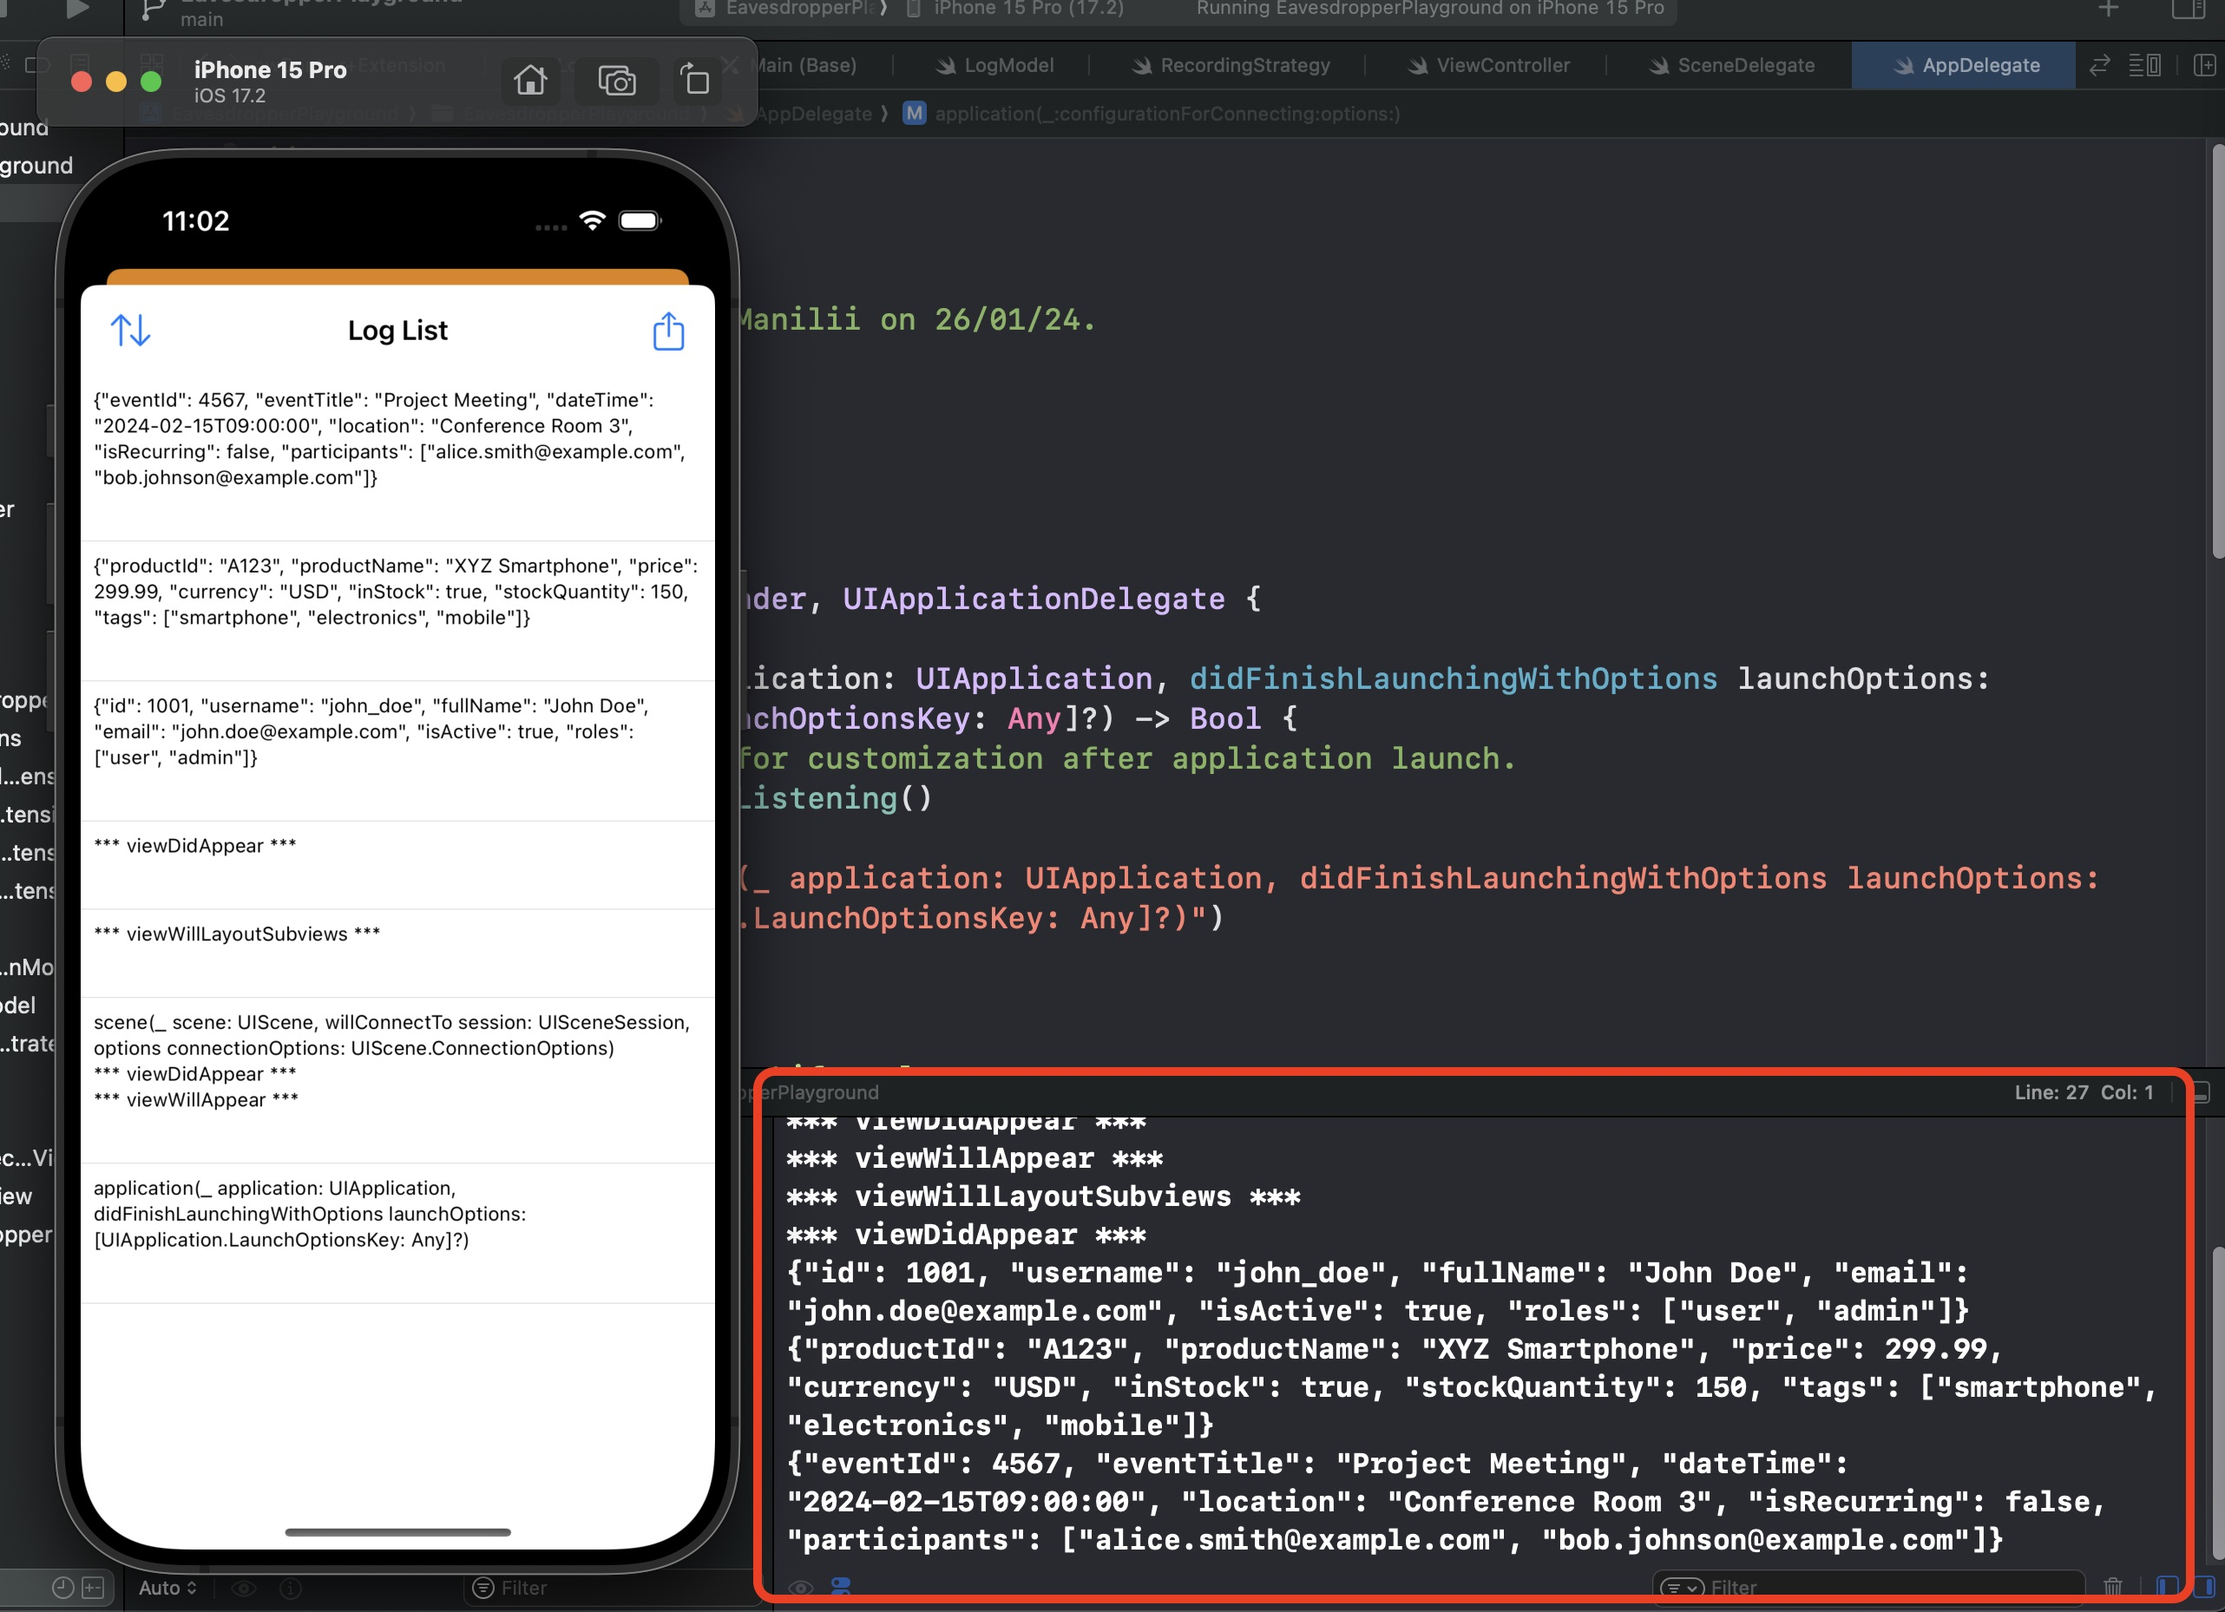
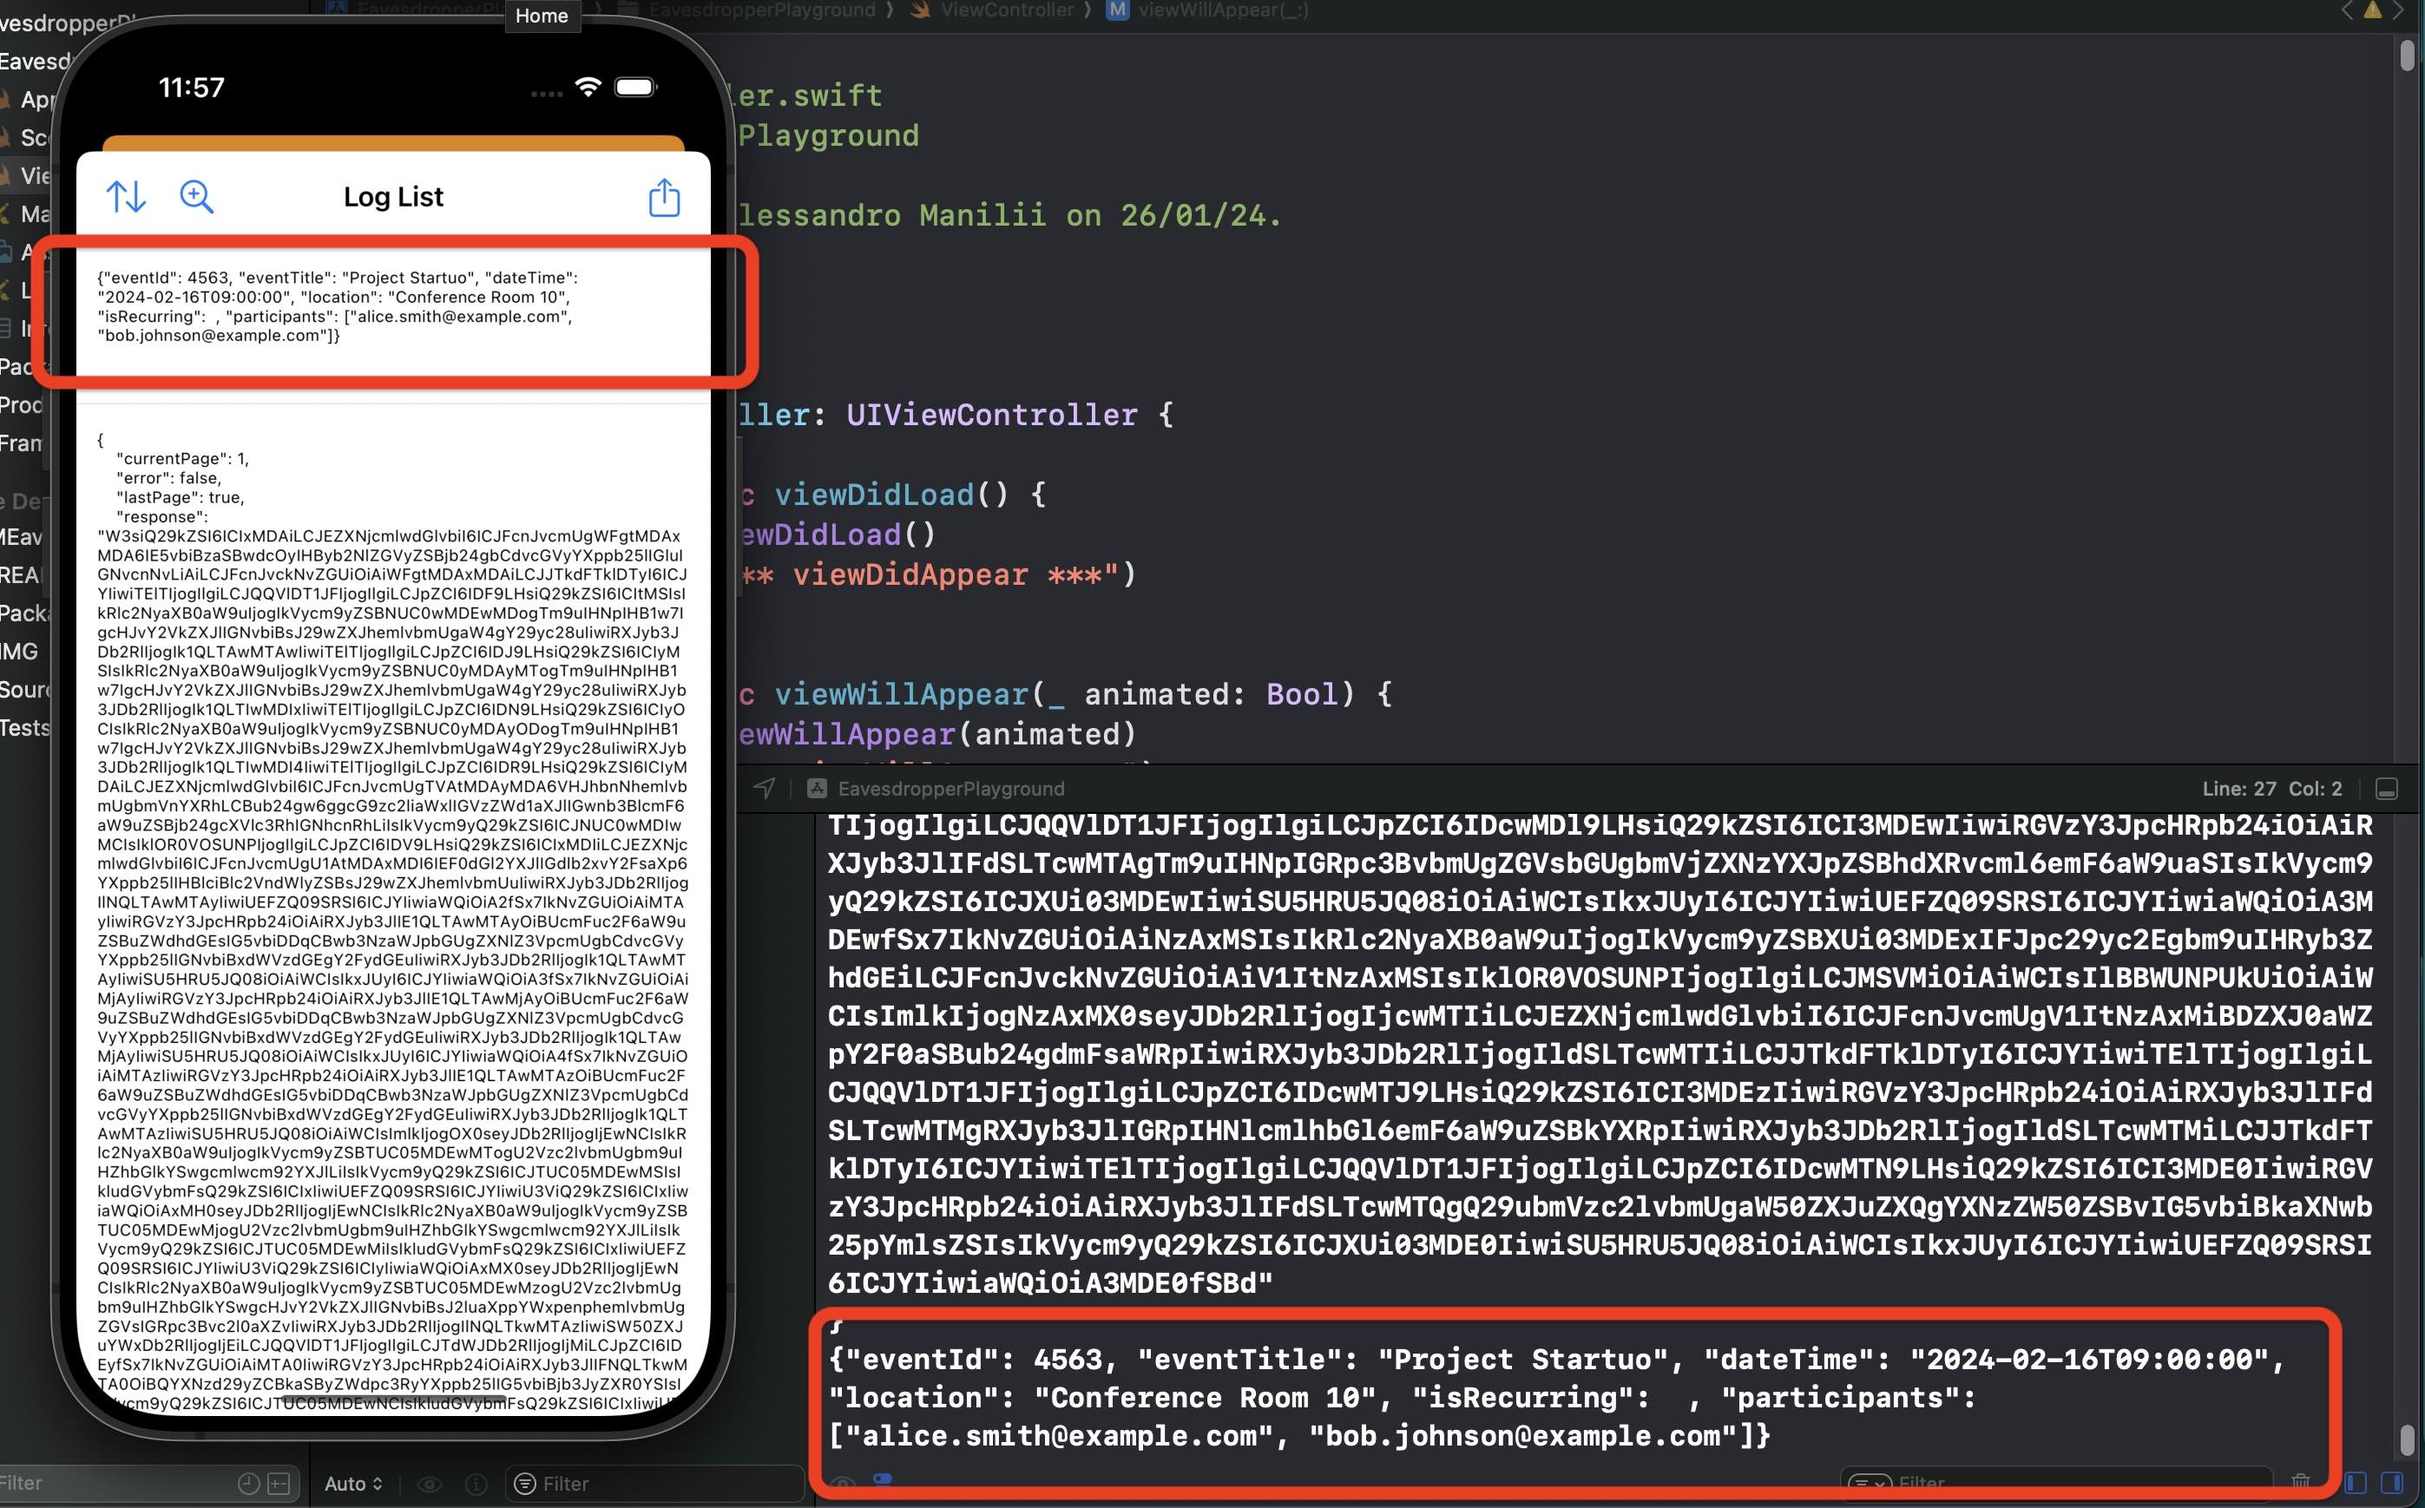
Improved search

diff --git a/Sources/AMEavesdropper/Scenes/Views/AttributedLabel.swift b/Sources/AMEavesdropper/Scenes/Views/AttributedLabel.swift
@@ -1,0 +1,129 @@
+//
+//  SwiftUIView.swift
+//  
+//
+//  Created by Alessandro Manilii on 01/02/24.
+//
+
+import UIKit
+import SwiftUI
+
+struct AttributedLabel: View {
+
+    @State private var height: CGFloat = .zero
+    @Environment(\.colorScheme) private var colorScheme
+    
+    var text: String
+    var searchText: String?
+    
+    var textColor: UIColor {
+        colorScheme == .dark ? UIColor.white : UIColor.black
+    }
+    
+    var body: some View {
+        
+        InternalTextView(
+            textColor: textColor,
+            text: text,
+            searchText: searchText,
+            dynamicHeight: $height
+        )
+        .frame(minHeight: height)
+    }
+
+    struct InternalTextView: UIViewRepresentable {
+
+        var attributedText: NSAttributedString
+        @Binding var dynamicHeight: CGFloat
+        
+        init(textColor: UIColor, text: String, searchText: String?, dynamicHeight: Binding<CGFloat>) {
+            let attributedText = InternalTextView.getAttributedString(
+                for: text, highlighted: searchText, textColor: textColor
+            )
+            self.attributedText = attributedText
+            self._dynamicHeight = dynamicHeight
+        }
+
+        func makeUIView(context: Context) -> UITextView {
+            let textView = UITextView()
+            textView.textAlignment = .justified
+            textView.isScrollEnabled = false
+            textView.isUserInteractionEnabled = false
+            textView.showsVerticalScrollIndicator = false
+            textView.showsHorizontalScrollIndicator = false
+            textView.allowsEditingTextAttributes = false
+            textView.backgroundColor = .clear
+            textView.setContentCompressionResistancePriority(
+                .defaultLow, for: .horizontal
+            )
+            textView.setContentCompressionResistancePriority(
+                .defaultLow, for: .vertical
+            )
+            return textView
+        }
+
+        func updateUIView(_ uiView: UITextView, context: Context) {
+            uiView.attributedText = attributedText
+            DispatchQueue.main.async {
+                dynamicHeight = uiView.sizeThatFits(CGSize(width: uiView.bounds.width, height: CGFloat.greatestFiniteMagnitude)).height
+            }
+        }
+        
+        private static func getAttributedString(
+            for text: String, highlighted: String?,
+            textColor: UIColor
+        ) -> NSMutableAttributedString {
+
+            var fullMutString = NSMutableAttributedString(string: "", attributes: [
+                .font: UIFont.systemFont(ofSize: 10),
+                .foregroundColor: textColor,
+                .kern: 0.0
+            ])
+            
+            if let highlighted, !highlighted.isEmpty {
+
+                let parts = text.localizedLowercase.components(separatedBy: highlighted.lowercased())
+                
+                for (index, item) in parts.enumerated() {
+                    let textPart = NSMutableAttributedString(
+                        string: item,
+                        attributes: [
+                            .font: UIFont.systemFont(ofSize: 10),
+                            .foregroundColor: textColor,
+                            .kern: 0.0
+                        ])
+                    
+                    fullMutString.append(textPart)
+                    
+                    if index < parts.count-1 {
+                        let highlightedText = NSMutableAttributedString(
+                            string: highlighted,
+                            attributes: [
+                                .font: UIFont.boldSystemFont(ofSize: 12),
+                                .foregroundColor: textColor,
+                                .kern: 0.0
+                            ])
+                        
+                        fullMutString.append(highlightedText)
+                    }
+                }
+            } else {
+                fullMutString = NSMutableAttributedString(string: text, attributes: [
+                    .font: UIFont.systemFont(ofSize: 10),
+                    .foregroundColor: textColor,
+                    .kern: 0.0
+                ])
+            }
+            
+            return fullMutString
+        }
+    }
+}
+
+#Preview {
+    VStack {
+        AttributedLabel(text: "Andiamo con un testo molto lungo che potrebbe andare su due righe, ma ancora di più, che guarda lo mando su ", searchText: "anD")
+    }
+    
+}
+

diff --git a/Sources/AMEavesdropper/Scenes/LogsView.swift b/Sources/AMEavesdropper/Scenes/LogsView.swift
@@ -22,6 +22,9 @@ struct LogsView: View {
     @State private var exportOrder = ExportOrder.descending
     @State private var searchText = ""
     
+    private let orderImgFilename = "arrow.up.arrow.down"
+    private let exportImgFilename = "square.and.arrow.up"
+    
     var searchImage: Image {
         canShowSearch ?
         Image(systemName: "minus.magnifyingglass") :
@@ -41,39 +44,45 @@ struct LogsView: View {
         NavigationView {
             
             ZStack {
-                ScrollView {
-                    VStack(spacing: 0) {
-                        
-                        if canShowSearch {
-                           SearchView(searchText: $searchText)
-                                .frame(height: 70)
-                        }
-                        
-                        ForEach(shownLogs) { log in
-                            // Log cell
-                            ZStack {
-                                bgColor(log: log)
-                                VStack {
-                                    Text(log.message ?? "---")
-                                        .font(.caption)
-                                        .frame(maxWidth: .infinity, alignment: .leading)
-                                        .padding(8)
-                                    
-                                    Divider()
-                                }
-                                
-                                Color.black.opacity(0.001)
-                                    .onTapGesture {
-                                        toggle(log: log)
-                                    }
-                            }
-                        }
+                
+                VStack(spacing: 0) {
+                    // Search are
+                    if canShowSearch {
+                       SearchView(searchText: $searchText)
+                            .frame(height: 70)
                     }
                     
-                    // Spacer
-                    Color.clear
-                        .frame(height: 100)
+                    ScrollView {
+                        VStack(spacing: 0) {
+  
+                            ForEach(shownLogs) { log in
+                                // Log cell
+                                ZStack {
+                                    bgColor(log: log)
+                                    VStack {
+                                        AttributedLabel(
+                                            text: log.message ?? "---",
+                                            searchText: searchText)
+                                        .frame(maxWidth: .infinity, alignment: .leading)
+                                        .padding(8)
+                                        
+                                        Divider()
+                                    }
+                                    
+                                    Color.black.opacity(0.001)
+                                        .onTapGesture {
+                                            toggle(log: log)
+                                        }
+                                }
+                            }
+                        }
+                        
+                        // Bottom Spacer
+                        Color.clear
+                            .frame(height: 100)
+                    }
                 }
+               
                 
                 VStack {
                     Spacer()
@@ -94,7 +103,7 @@ struct LogsView: View {
                     Button(action: {
                         exportLogs()
                     }, label: {
-                        Image(systemName: "square.and.arrow.up")
+                        Image(systemName: exportImgFilename)
                     })
             )
             .navigationBarItems(
@@ -104,7 +113,7 @@ struct LogsView: View {
                         Button(action: {
                             updateLogOrder()
                         }, label: {
-                            Image(systemName: "arrow.up.arrow.down")
+                            Image(systemName: orderImgFilename)
                         })
                         // Button Search
                         Button(action: {

diff --git a/Sources/AMEavesdropper/Eavesdropper.swift b/Sources/AMEavesdropper/Eavesdropper.swift
@@ -107,7 +107,8 @@ private extension EavesdropperManager {
         inputPipe.fileHandleForReading.readInBackgroundAndNotify()
         
         if let data = notification.userInfo?[NSFileHandleNotificationDataItem] as? Data,
-           let str = String(data: data, encoding: String.Encoding.utf8) {
+           let str = String(data: data, encoding: String.Encoding.utf8),
+            !str.isEmpty, str != "\n" {
             
             // Add a log to the array
             let logModel = LogModel(message: str, sessionID: currentSession.sessionID)

diff --git a/Sources/AMEavesdropper/Scenes/Views/SearchView.swift b/Sources/AMEavesdropper/Scenes/Views/SearchView.swift
@@ -9,11 +9,18 @@ import SwiftUI
 
 struct SearchView: View {
     
+    @Environment(\.colorScheme) private var colorScheme
+    
     @Binding var searchText: String
+    
+    var bgColorView: Color {
+        
+        Color.secondary.opacity(colorScheme == .dark ? 0.3 : 0.2)
+    }
 
     var body: some View {
         ZStack {
-            Color.secondary.opacity(0.2)
+            bgColorView
             ZStack(alignment: .trailing) {
                 TextField("Search log", text: $searchText)
                     .textFieldStyle(.roundedBorder)

diff --git a/README.md b/README.md
@@ -15,12 +15,12 @@ Requirements:
 
 ### Swift Package
 ```swift
-.package(url: "https://github.com/DungeonDev78/AMEavesdropper.git", .upToNextMajor(from: "0.9.0"))
+.package(url: "https://github.com/DungeonDev78/AMEavesdropper.git", .upToNextMajor(from: "0.9.3"))
 ```
 
 ![Example](https://github.com/DungeonDev78/AMEavesdropper/blob/main/IMG/img002.jpeg?raw=true)
 
-![Example](https://github.com/DungeonDev78/AMEavesdropper/blob/main/IMG/img001.jpeg?raw=true)
+![Example](https://github.com/DungeonDev78/AMEavesdropper/blob/main/IMG/img001.jpg?raw=true)
 
 #### What's new
 - 0.9.2: added search/filter option for logs
